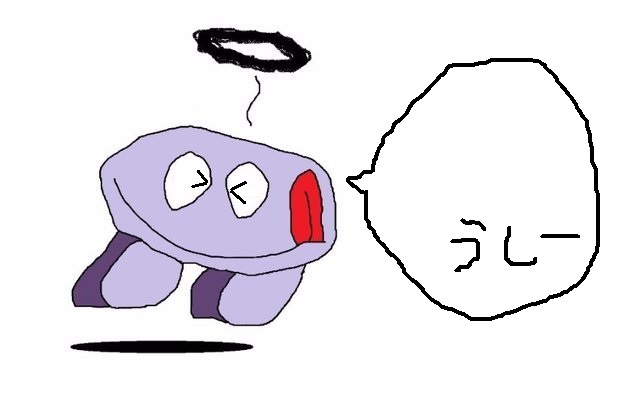
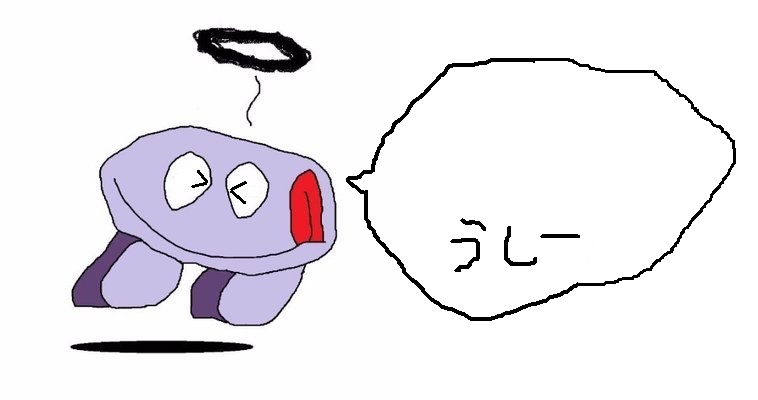
fix

diff --git a/beet/canvas2.js b/beet/canvas2.js
@@ -6,7 +6,7 @@ $(function()
   var base = new Image();
   base.src = "ushi.png";
   base.onload = function() {
-    ctx.drawImage(base, 0, 0, 300, 200);
+    ctx.drawImage(base, 0, 0, 400, 200);
   };
 
   $('#id1').keyup(function(event)
@@ -39,7 +39,7 @@ $(function()
     var str = (str1 + str2 + str3)/1024/1024;
     str = String(Math.floor((str * 100)) / 100);
     ctx.fillStyle="#FFFFFF";
-    ctx.fillRect(195, 55, 77, 50);
+    ctx.fillRect(215, 55, 150, 50);
     if(str >= 10000) str = "うしー";
     str = str.substring(0,4);
     if(str == "0") {
@@ -53,7 +53,7 @@ $(function()
     if(str.length > 0) {
       ctx.fillStyle="#000000";
       ctx.font = "20px _sans";
-      ctx.fillText(str, 195, 85);
+      ctx.fillText(str, 230, 85);
     }
     var img_png_src = $("#row")[0].toDataURL("image/png");
     $("#output").attr("src", img_png_src);

diff --git a/beet/memory.html b/beet/memory.html
@@ -28,9 +28,9 @@
         </div>
  
         <h4>出力</h4>
-        <canvas id="row" width="300px" height="200px"></canvas>
+        <canvas id="row" width="400px" height="200px"></canvas>
 
-        <img id="output" alt="" width="100%" style="max-width: 300px;"/>
+        <img id="output" alt="" width="100%" style="max-width: 400px;"/>
       </section>
     </main>
     <hr>
